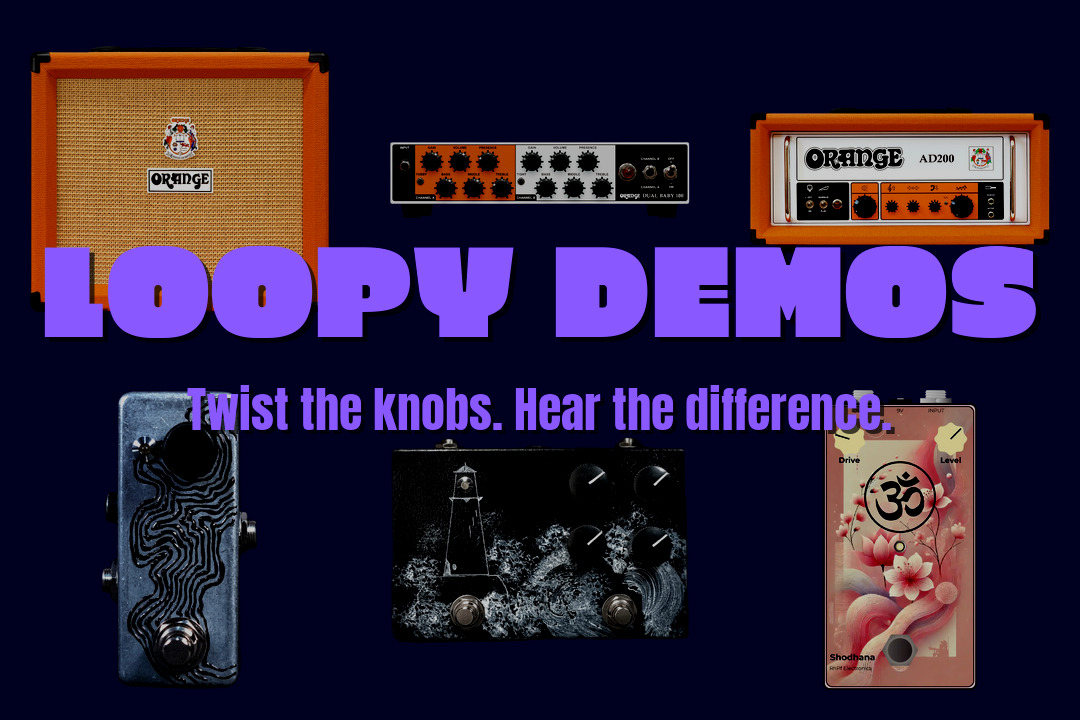
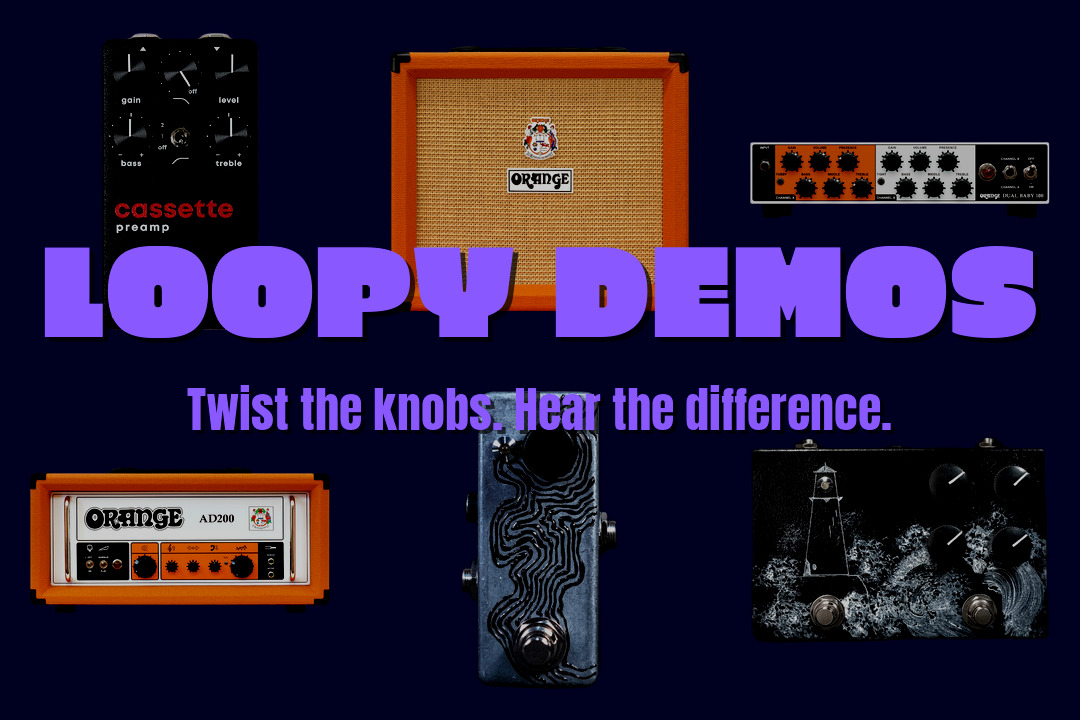
feat: add color audio cassette preamp demo (#74)
* feat: add color audio cassette preamp demo

* feat: add presets and copy

diff --git a/src/components/demo-widget/controls/knob/knob-state-container.tsx b/src/components/demo-widget/controls/knob/knob-state-container.tsx
@@ -18,9 +18,13 @@ export const KnobStateContainer: ParentComponent<
   const { getSetting, activePedals, isSweepTarget } = useDemoState()
 
   // Memoize computations to prevent excessive re-evaluation
-  const level = createMemo(() => (getSetting(props.pedalSlug, props.id) as number) ?? 5)
+  const level = createMemo(
+    () => (getSetting(props.pedalSlug, props.id) as number) ?? 5,
+  )
   const isActive = createMemo(() => activePedals().includes(props.pedalSlug))
-  const isSweepTargetMemo = createMemo(() => isSweepTarget(props.id, props.pedalSlug))
+  const isSweepTargetMemo = createMemo(() =>
+    isSweepTarget(props.id, props.pedalSlug),
+  )
 
   return (
     <Show when={isActive()}>
@@ -34,10 +38,7 @@ export const KnobStateContainer: ParentComponent<
           transform: `rotate(${props.isRotary ? props.rotaryAngles?.[level() - 1] : 30 * level() - 150}deg)`,
         }}
       >
-        <Show
-          when={isSweepTargetMemo()}
-          fallback={props.children}
-        >
+        <Show when={isSweepTargetMemo()} fallback={props.children}>
           <DragSweepControl id={props.id} size={props.size}>
             <SweepIndicator color={props.highlightColor} size={props.size} />
             {props.children}

diff --git a/src/components/demo-widget/demo-state-store.tsx b/src/components/demo-widget/demo-state-store.tsx
@@ -153,7 +153,7 @@ export const useDemoStateValue = (props: DemoStateProviderProps) => {
     // Prevent infinite recursion
     const key = `${pedalSlug}:${id}`
     if (visited.has(key)) return undefined
-    
+
     const slug = pedalSlug
     const newVisited = new Set(visited)
     newVisited.add(key)
@@ -166,7 +166,8 @@ export const useDemoStateValue = (props: DemoStateProviderProps) => {
       activePreset()?.settings?.[id] ??
       dependency?.values?.find(
         ({ sourceValue }) =>
-          sourceValue === getSetting(slug, dependency.source, undefined, newVisited),
+          sourceValue ===
+          getSetting(slug, dependency.source, undefined, newVisited),
       )?.targetValue ??
       sweepSetting()?.[id]
     )
@@ -201,7 +202,7 @@ export const useDemoStateValue = (props: DemoStateProviderProps) => {
   createEffect(() => {
     const preset = memoizedActivePreset()
     if (!preset) return
-    
+
     // Only update sweep settings if we're not in the initialization phase
     // and the preset actually has sweep capability
     if (preset.isSweep || preset.chain?.some(p => p.isSweep)) {

diff --git a/src/components/demo-widget/controls/knob/knob.tsx b/src/components/demo-widget/controls/knob/knob.tsx
@@ -1,11 +1,5 @@
 import type { Knob as KnobData } from "@types"
-import {
-  type Component,
-  createResource,
-  type JSX,
-  Suspense,
-  splitProps,
-} from "solid-js"
+import { type Component, createResource, Suspense, splitProps } from "solid-js"
 import { Joystick } from "./joystick"
 import { KnobStateContainer } from "./knob-state-container"
 

diff --git a/src/content/demos/color-audio-cassette-preamp.md b/src/content/demos/color-audio-cassette-preamp.md
@@ -1,0 +1,31 @@
+---
+builder: Color Audio
+model: Cassette Preamp
+slug: color-audio-cassette-preamp
+type: demo
+isSponsored: true
+date: 2025-10-16
+tags:
+  - di
+  - tascam
+  - cassette preamp
+  - preamp
+  - lo-fi
+externalLinks:
+  builderLink: https://coloraudio.fi/products/cassette-preamp
+---
+
+The Color Audio Cassette Preamp nails that gritty vintage Japanese cassette recorder sound in a compact preamp pedal. This is the channel strip from a vintage Tascam-style cassette deck, faithfully reproduced right down to the original NJM2068 and M5218 op-amps.
+
+I enjoy the Cassette Preamp because it delivers such a wide range of character - from compressed cleans that add warmth and presence to your DI signal, all the way to blown-out fuzz when you push the gain. The high-pass and low-pass filters really open up the sound sculpting possibilities, letting you dial in everything from crispy hi-fi tones to warm lo-fi textures.
+
+The build quality is serious - Neutrik jacks, Alpha pots, and a rugged aluminum enclosure that's built for touring. The relay switching with auto-bypass on power loss is a thoughtful touch. At 9-18V operation, you get plenty of headroom, and the 23mA current draw won't tax your power supply.
+
+While it's designed as a mic/line preamp, it works beautifully with guitar or bass plugged straight in. The unapologetically raw character makes it perfect for adding that vintage cassette vibe to recordings or live performances. Whether you're chasing lo-fi bedroom pop tones or need a versatile preamp for studio work, the Cassette Preamp delivers authentic vintage character with modern reliability.
+
+### Signal Chain
+
+- Fidelity Guitars Stellarosa with Mojo Lipstick Pickups (both pickups in series)
+- Various pedals (see demo widget above) or nothing
+- Cassette Preamp
+- ...yep, that's it
